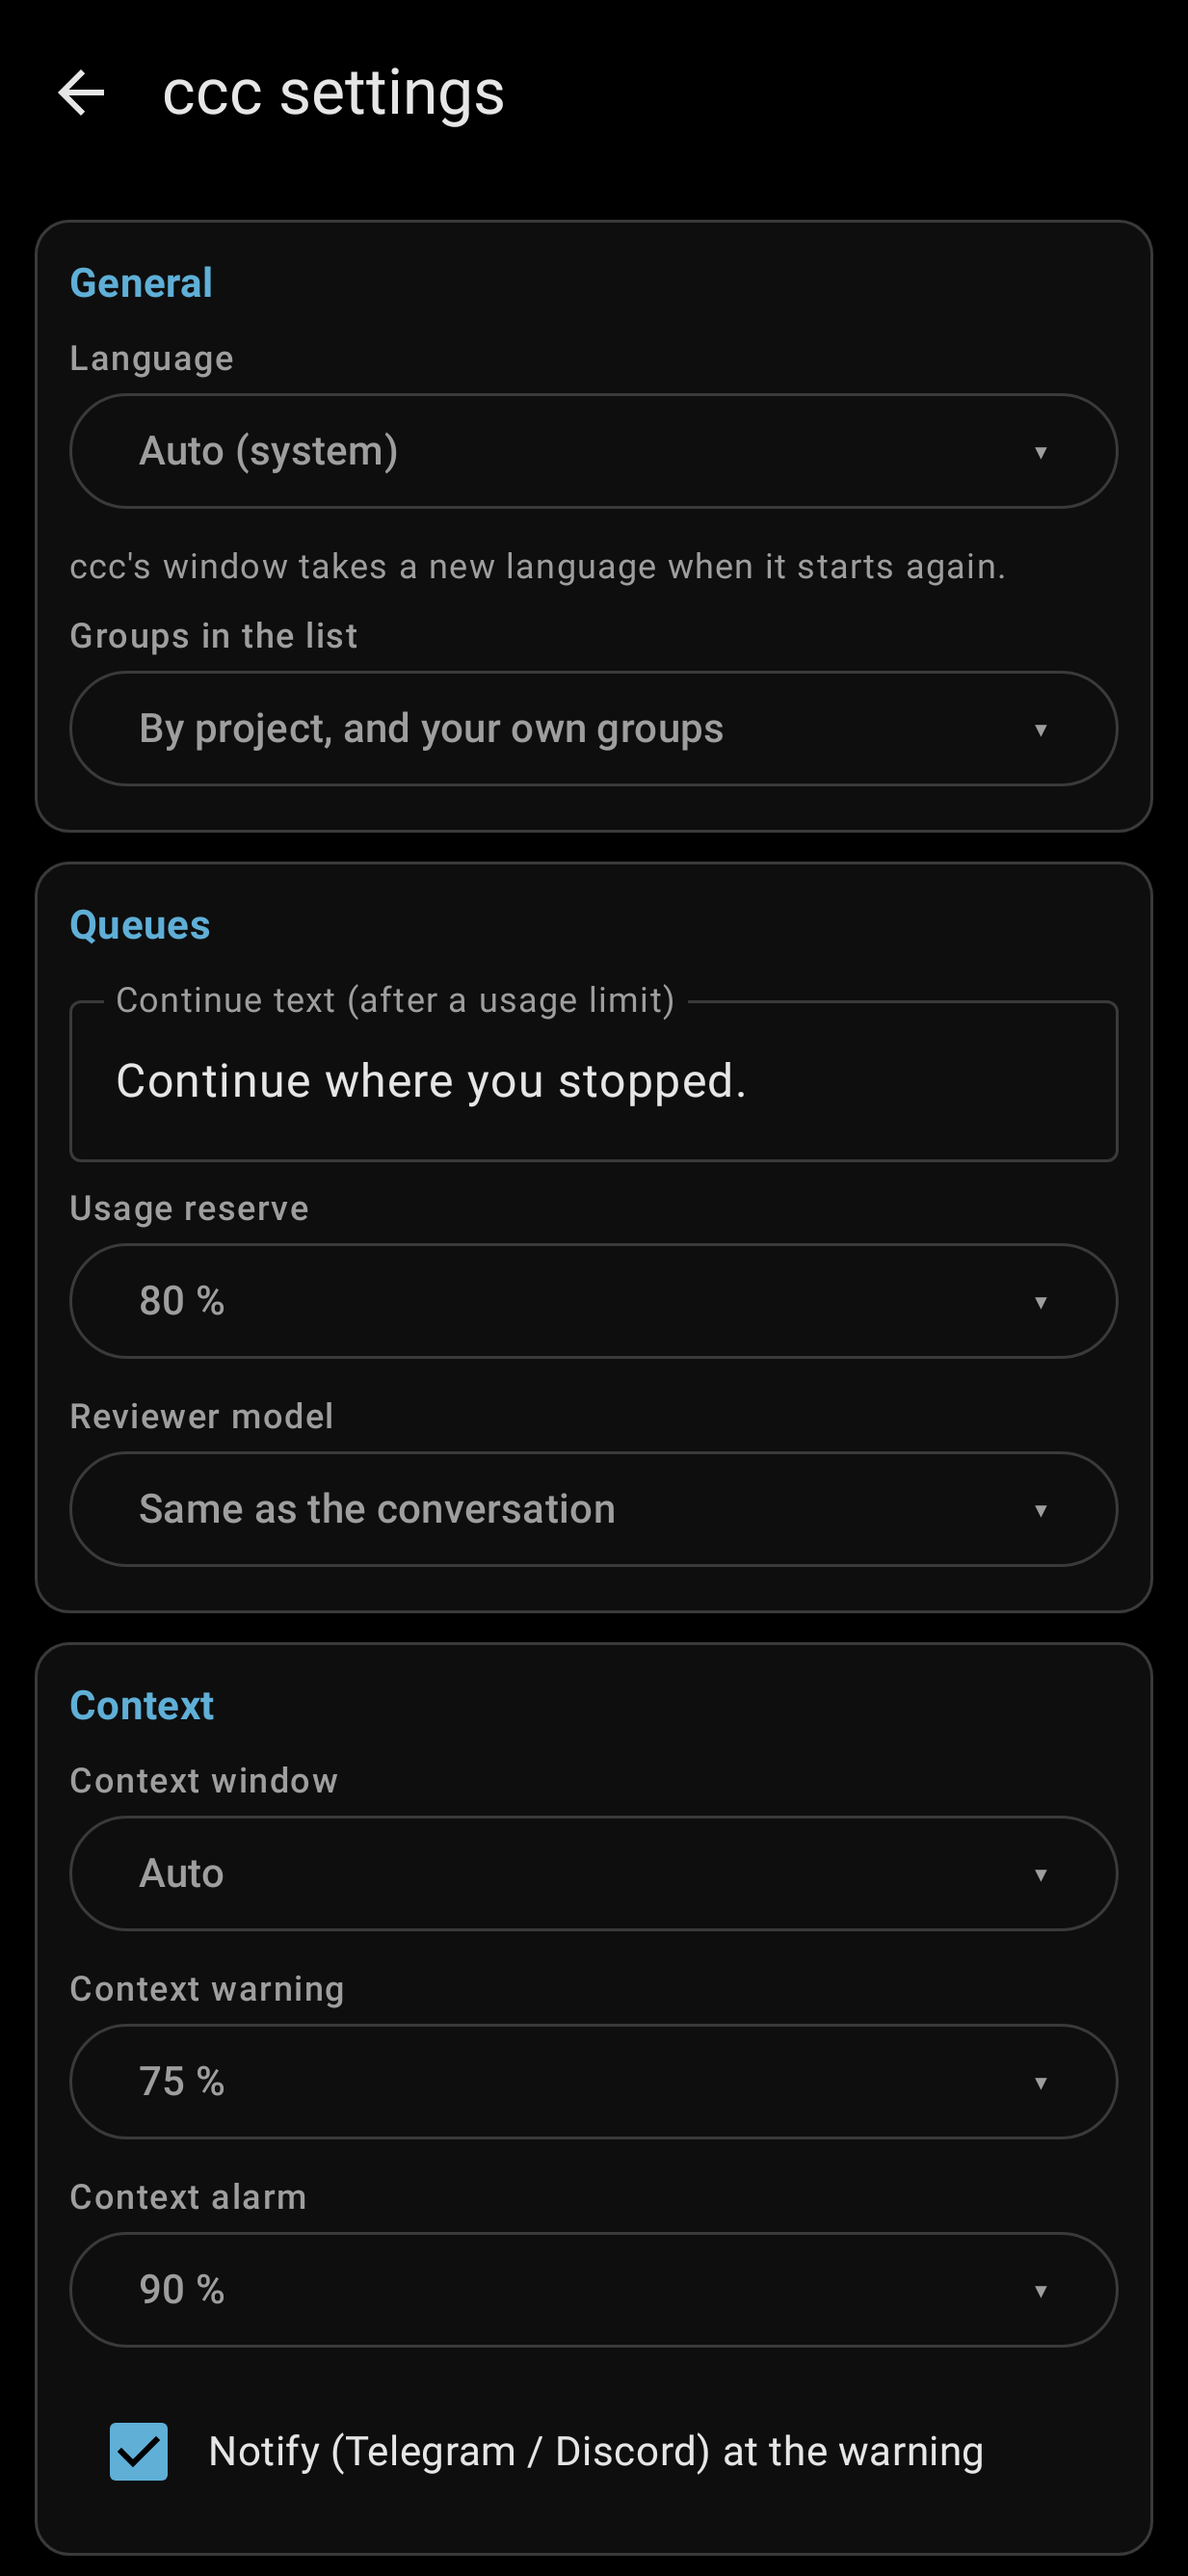
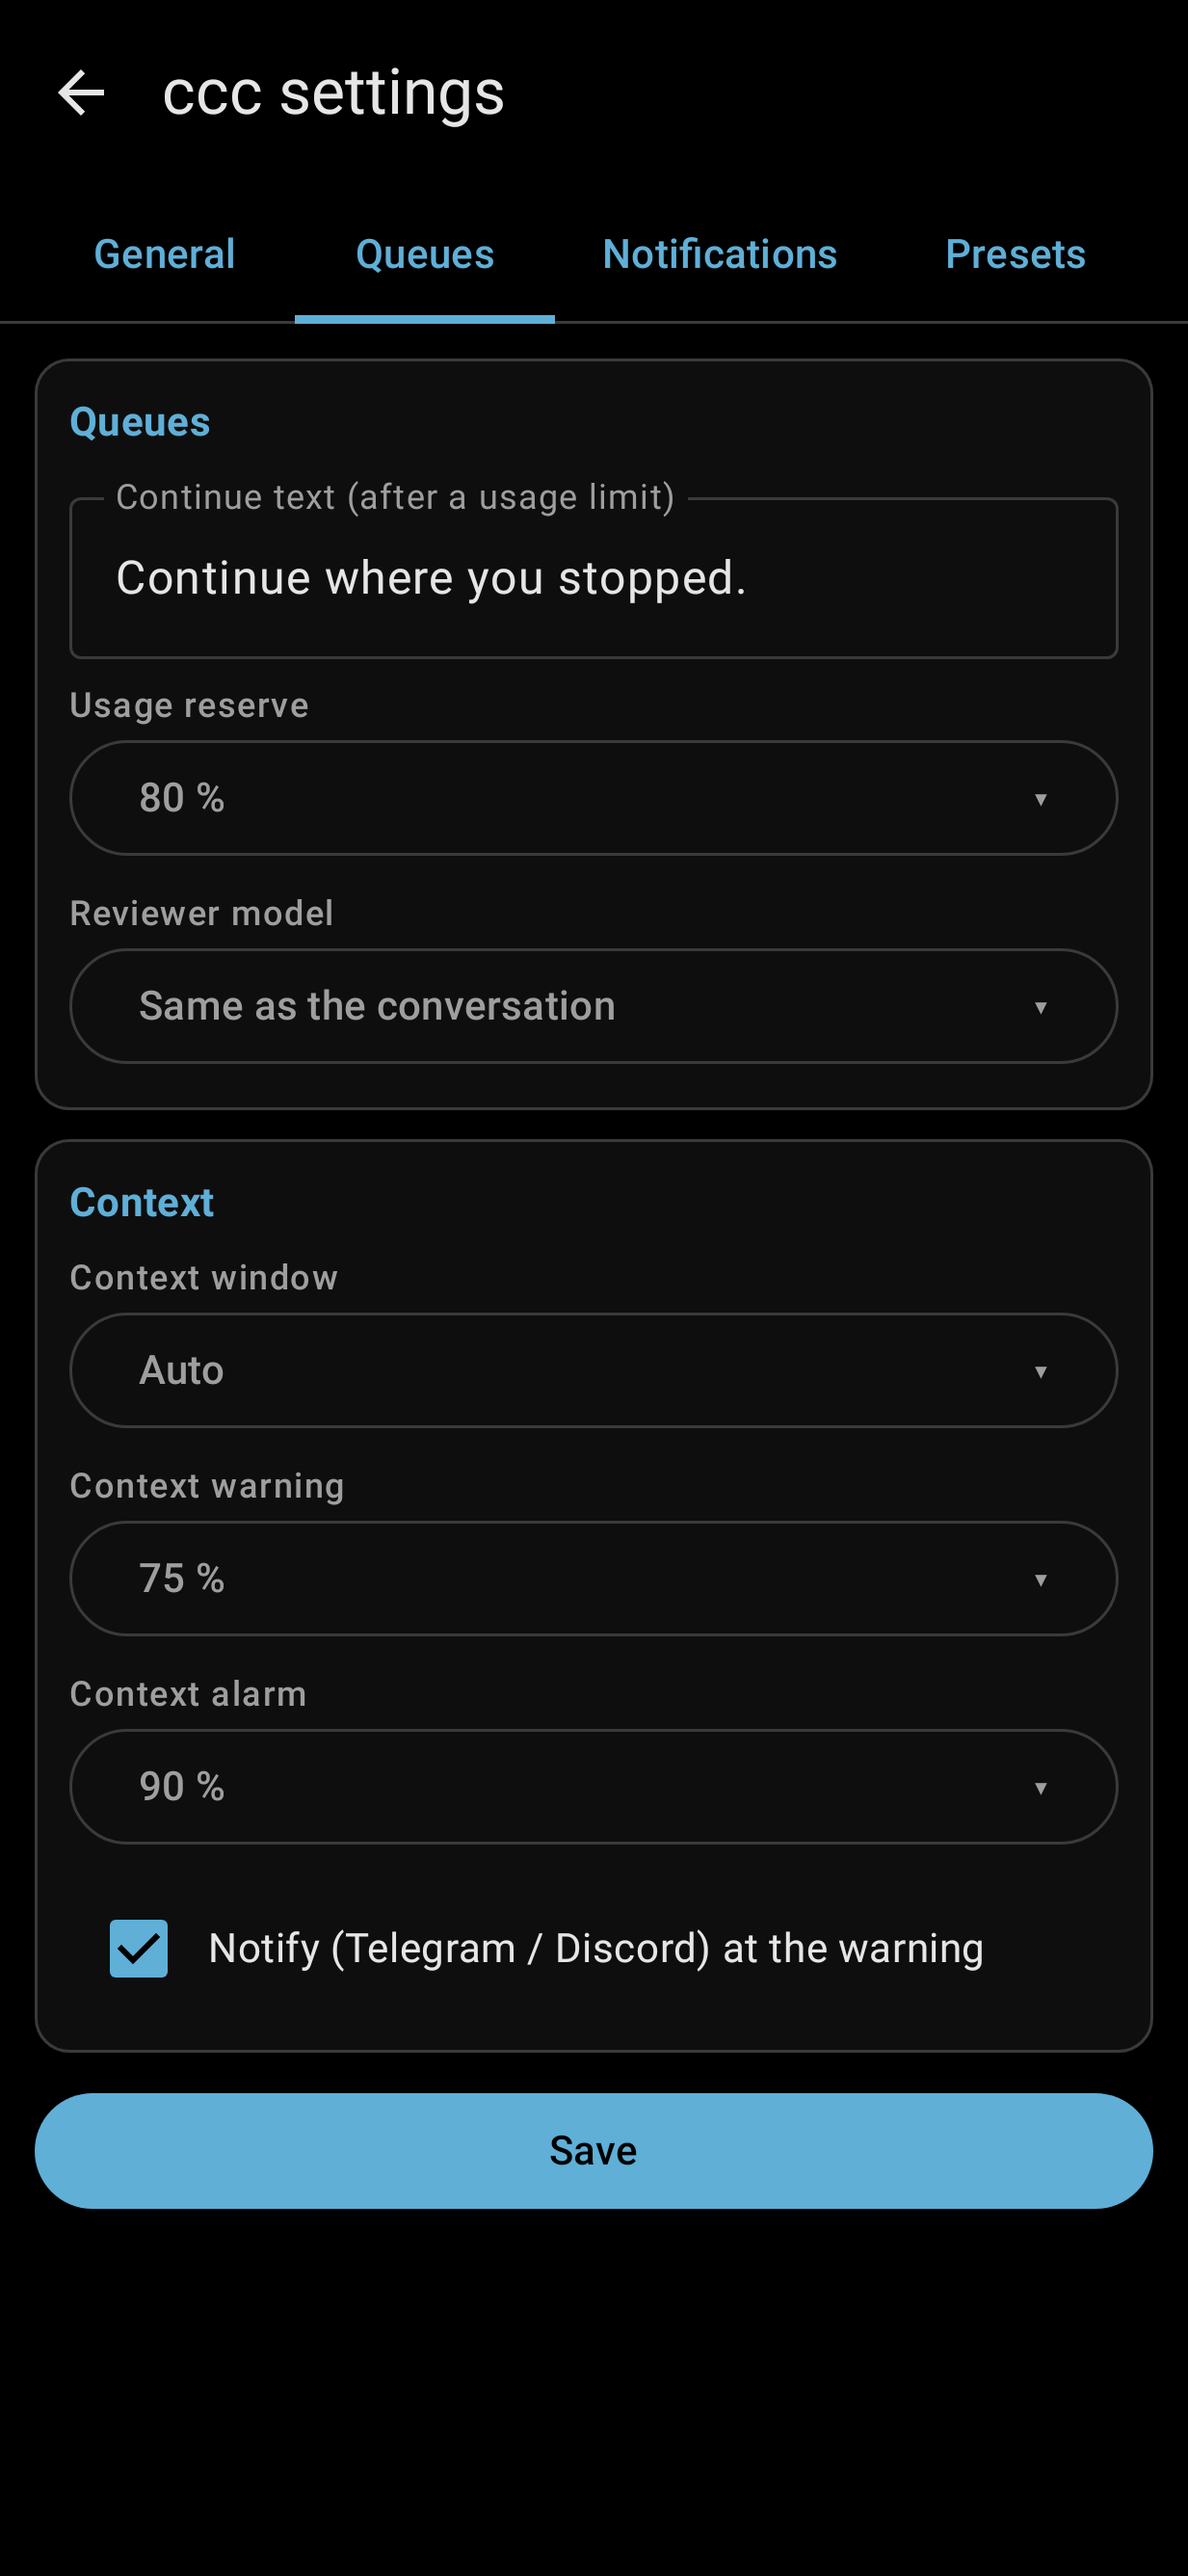
Settings in tabs: docs, screenshots, presets table sized when its tab shows (#128)
Claude-Session: https://claude.ai/code/session_01HoGxXtgeHNDDkThvTcTfKm

diff --git a/src/ccc/tui/settings.py b/src/ccc/tui/settings.py
@@ -70,6 +70,7 @@ class SettingsModal(ModalScreen):
     }
     SettingsModal .settings-scroll {
         height: 1fr;
+        scrollbar-gutter: stable;
     }
     SettingsModal .settings-section {
         border: round $ccc-frame;
@@ -501,6 +502,12 @@ class SettingsModal(ModalScreen):
     def on_resize(self) -> None:
         # The prompt column follows the window width.
         self.call_after_refresh(self._refresh_prompt_presets)
+
+    def on_tabbed_content_tab_activated(self, event: TabbedContent.TabActivated) -> None:
+        # The table of the Presets tab has no width while its tab is hidden: size it once it's shown.
+        event.stop()
+        if event.pane.id == "settings-tab-presets":
+            self.call_after_refresh(self._refresh_prompt_presets)
 
     def _selected_prompt_index(self) -> int | None:
         row = self.query_one("#settings-prompt-presets", DataTable).cursor_row

diff --git a/tests/test_tui_prompt_presets.py b/tests/test_tui_prompt_presets.py
@@ -1,5 +1,5 @@
 import pytest
-from textual.widgets import Checkbox, DataTable, Input, TextArea
+from textual.widgets import Checkbox, DataTable, Input, TabbedContent, TextArea
 
 from ccc.prompt_presets import PromptPreset, load_prompt_presets, save_prompt_presets
 from ccc.storage import Storage
@@ -175,6 +175,8 @@ async def test_settings_preset_table_fits_the_row_with_ellipsis(tmp_path, width)
     async with app.run_test(size=(width, 40)) as pilot:
         await pilot.pause()
         await pilot.press("ctrl+p")
+        await pilot.pause()
+        app.screen.query_one(TabbedContent).active = "settings-tab-presets"
         await pilot.pause()
         table = app.screen.query_one("#settings-prompt-presets", DataTable)
         assert table.max_scroll_x == 0

diff --git a/tests/test_tui_layout.py b/tests/test_tui_layout.py
@@ -1,5 +1,5 @@
 import pytest
-from textual.widgets import Button, Input
+from textual.widgets import Button, Input, TabbedContent
 
 from ccc.storage import Storage
 from ccc.tui.analytics import AnalyticsScreen
@@ -227,6 +227,8 @@ async def test_buttons_keep_size_and_colour_on_hover_focus_and_click(tmp_path):
 
     app = Host(str(tmp_path / "h.db"))
     async with app.run_test(size=(120, 40)) as pilot:
+        await pilot.pause()
+        app.screen.query_one(TabbedContent).active = "settings-tab-notifications"
         await pilot.pause()
         button = app.screen.query_one("#settings-telegram-test", Button)
         button.scroll_visible(animate=False)

diff --git a/src/ccc/help/cs/settings.md b/src/ccc/help/cs/settings.md
@@ -9,6 +9,22 @@ změny zahodí. Tlačítka jako *Poslat testovací zprávu*, *Vypnout* nebo
 
 ## Sekce
 
+Okno má záložku pro každý druh nastavení (přepínají se `←` `→` nebo
+klikem); *Uložit* použije všechny záložky najednou:
+
+| Záložka | Sekce |
+|---|---|
+| Obecné | Vzhled, Externí editor, Přehled, Klávesové zkratky |
+| Fronty a kontext | Fronty, Kontext |
+| Notifikace | Telegram, Discord |
+| Předvolby | Přednastavené prompty, Předvolby nové konverzace |
+| Data | Exporty, Měsíční archiv analytiky, Data |
+| Připojení a aktualizace | Zařízení, Aktualizace |
+
+*Nastavení ccc* v aplikaci pro Android má stejné druhy záložek (a navíc
+*Připojení*, které otevře vlastní obrazovku aplikace s přihlášením a
+zařízeními).
+
 | Sekce | |
 |---|---|
 | Vzhled | jazyk — *Automaticky* se řídí systémem (`LANG`), uložení jiného jazyka restartuje okno ccc |

diff --git a/src/ccc/help/settings.md b/src/ccc/help/settings.md
@@ -9,6 +9,21 @@ now* act right away.
 
 ## Sections
 
+The window has a tab for each kind of setting (`←` `→` or a click switch
+between them); *Save* applies every tab at once:
+
+| Tab | Sections |
+|---|---|
+| General | Appearance, External editor, Dashboard, Keyboard shortcuts |
+| Queues and context | Queues, Context |
+| Notifications | Telegram, Discord |
+| Presets | Preset prompts, New-conversation presets |
+| Data | Exports, Monthly analytics archive, Data |
+| Connection and updates | Devices, Updates |
+
+The Android app's *ccc settings* has the same kinds of tabs (plus
+*Connection*, which opens the app's own sign-in and devices screen).
+
 | Section | |
 |---|---|
 | Appearance | language — *Auto* follows the system (`LANG`), saving another one restarts ccc's window |
